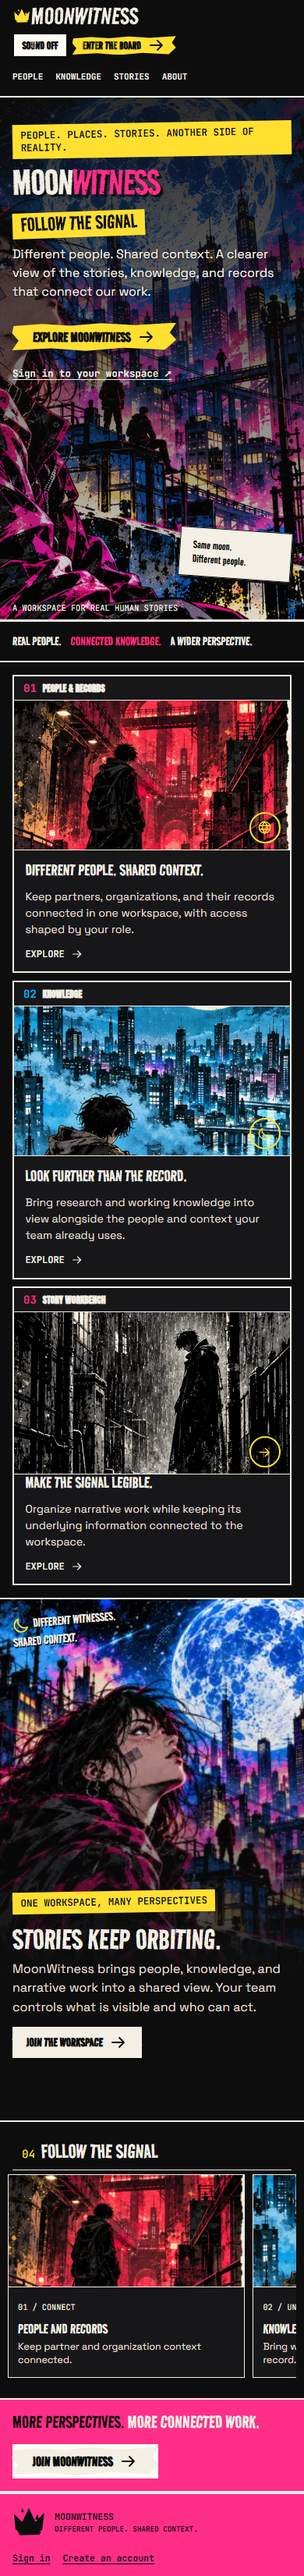
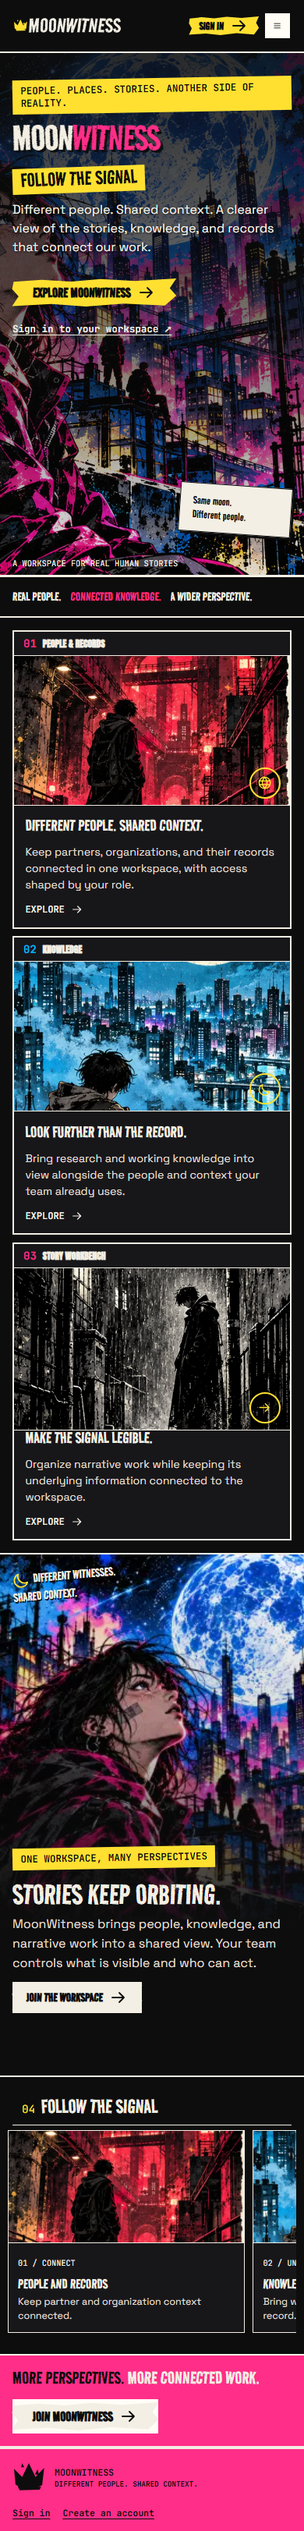
feat(home): add accessible mobile navigation

diff --git a/apps/board/src/components/home/home-header.tsx b/apps/board/src/components/home/home-header.tsx
@@ -1,0 +1,95 @@
+'use client';
+
+import Image from 'next/image';
+import Link from 'next/link';
+import { Button } from '@moonwitness/ui/components/button';
+import {
+  Sheet,
+  SheetClose,
+  SheetContent,
+  SheetDescription,
+  SheetHeader,
+  SheetTitle,
+  SheetTrigger,
+} from '@moonwitness/ui/components/sheet';
+import { SoundToggle } from '@moonwitness/ui/components/audio';
+import { ArrowRightIcon, MenuIcon } from '@moonwitness/ui/icons';
+
+const homeLinks = [
+  { label: 'People', href: '#people' },
+  { label: 'Knowledge', href: '#knowledge' },
+  { label: 'Stories', href: '#stories' },
+  { label: 'About', href: '#about' },
+] as const;
+
+export function HomeHeader() {
+  return (
+    <header className="home-header">
+      <Link href="/" className="home-mark" aria-label="MoonWitness home">
+        <Image
+          src="/brand/moonwitness-lockup-dark.svg"
+          alt="MoonWitness"
+          className="home-lockup"
+          width={500}
+          height={80}
+          loading="eager"
+        />
+      </Link>
+      <nav className="home-nav" aria-label="Main navigation">
+        {homeLinks.map((item) => (
+          <a href={item.href} key={item.href}>
+            {item.label}
+          </a>
+        ))}
+      </nav>
+      <div className="home-header-actions">
+        <div className="home-desktop-sound">
+          <SoundToggle />
+        </div>
+        <Button asChild treatment="brush" size="sm">
+          <Link href="/login">
+            <span className="home-header-cta-desktop">Enter the board</span>
+            <span className="home-header-cta-mobile">Sign in</span>
+            <ArrowRightIcon aria-hidden="true" />
+          </Link>
+        </Button>
+        <Sheet>
+          <SheetTrigger asChild>
+            <Button
+              type="button"
+              variant="outline"
+              size="icon"
+              className="home-mobile-trigger"
+              aria-label="Open site navigation"
+            >
+              <MenuIcon aria-hidden="true" />
+            </Button>
+          </SheetTrigger>
+          <SheetContent side="right" className="home-mobile-sheet" aria-label="Site navigation">
+            <SheetHeader className="home-mobile-sheet-header">
+              <SheetTitle className="home-mobile-sheet-title">Explore MoonWitness</SheetTitle>
+              <SheetDescription>People, knowledge, stories, and the workspace.</SheetDescription>
+            </SheetHeader>
+            <nav className="home-mobile-nav" aria-label="Mobile navigation">
+              {homeLinks.map((item) => (
+                <SheetClose asChild key={item.href}>
+                  <a href={item.href}>{item.label}</a>
+                </SheetClose>
+              ))}
+            </nav>
+            <div className="home-mobile-sheet-actions">
+              <SoundToggle />
+              <Button asChild treatment="brush" size="lg">
+                <SheetClose asChild>
+                  <Link href="/login">
+                    Enter the board <ArrowRightIcon aria-hidden="true" />
+                  </Link>
+                </SheetClose>
+              </Button>
+            </div>
+          </SheetContent>
+        </Sheet>
+      </div>
+    </header>
+  );
+}

diff --git a/apps/board/e2e/public-home.spec.ts b/apps/board/e2e/public-home.spec.ts
@@ -71,6 +71,38 @@ test('homepage adapts to a narrow mobile viewport without horizontal overflow', 
   await page.setViewportSize({ width: 390, height: 844 });
   await page.goto('/');
   await expect(page.getByRole('heading', { level: 1, name: 'MoonWitness' })).toBeVisible();
+  await expect(page.getByRole('navigation', { name: 'Main navigation' })).toBeHidden();
+  const menuTrigger = page.getByRole('button', { name: 'Open site navigation' });
+  await expect(menuTrigger).toBeVisible();
+  await menuTrigger.focus();
+  await page.keyboard.press('Enter');
+  const mobileNav = page.getByRole('navigation', { name: 'Mobile navigation' });
+  await expect(mobileNav).toBeVisible();
+  const sheetPanel = page.locator('[data-slot="sheet-content"]');
+  const panelBounds = await sheetPanel.evaluate((element) =>
+    element.getBoundingClientRect().toJSON()
+  );
+  expect(panelBounds.top).toBeGreaterThanOrEqual(0);
+  expect(panelBounds.bottom).toBeLessThanOrEqual(844);
+  expect(panelBounds.right).toBeGreaterThanOrEqual(389);
+  const overlayColor = await page
+    .locator('[data-slot="sheet-overlay"]')
+    .evaluate((element) => getComputedStyle(element).backgroundColor);
+  expect(overlayColor).not.toBe('rgba(0, 0, 0, 0)');
+  await expect(mobileNav.getByRole('link', { name: 'People' })).toHaveAttribute('href', '#people');
+  await expect(mobileNav.getByRole('link', { name: 'Knowledge' })).toHaveAttribute(
+    'href',
+    '#knowledge'
+  );
+  for (let tabPress = 0; tabPress < 8; tabPress += 1) {
+    await page.keyboard.press('Tab');
+    expect(await sheetPanel.evaluate((element) => element.contains(document.activeElement))).toBe(
+      true
+    );
+  }
+  await page.keyboard.press('Escape');
+  await expect(mobileNav).toBeHidden();
+  await expect(menuTrigger).toBeFocused();
   const hasHorizontalOverflow = await page.evaluate(
     () => document.documentElement.scrollWidth > document.documentElement.clientWidth
   );
@@ -95,4 +127,10 @@ test('homepage adapts to a narrow mobile viewport without horizontal overflow', 
   await expect.poll(() => filmstrip.evaluate((element) => element.scrollLeft)).toBeGreaterThan(0);
   await page.keyboard.press('Home');
   await expect.poll(() => filmstrip.evaluate((element) => element.scrollLeft)).toBeLessThan(10);
+  await menuTrigger.click();
+  const mobileDialog = page.getByRole('dialog', { name: 'Explore MoonWitness' });
+  await expect(mobileDialog).toBeVisible();
+  await mobileDialog.getByRole('link', { name: 'Enter the board' }).click();
+  await expect(page).toHaveURL(/\/login$/u);
+  await expect(mobileDialog).toBeHidden();
 });

diff --git a/apps/board/src/app/page.tsx b/apps/board/src/app/page.tsx
@@ -4,8 +4,8 @@ import type { Metadata } from 'next';
 import { Button } from '@moonwitness/ui/components/button';
 import { PaperNote } from '@moonwitness/ui/components/paper-note';
 import { SectionRibbon } from '@moonwitness/ui/components/section-ribbon';
-import { SoundToggle } from '@moonwitness/ui/components/audio';
 import { ArrowRightIcon, GlobeIcon, MoonIcon } from '@moonwitness/ui/icons';
+import { HomeHeader } from '../components/home/home-header';
 import { HorizontalFilmstrip } from '../components/home/horizontal-filmstrip';
 
 // Next.js route metadata must be exported from the route file alongside its component.
@@ -104,32 +104,7 @@ const processSteps = [
 export default function HomePage() {
   return (
     <main className="home-page">
-      <header className="home-header">
-        <Link href="/" className="home-mark" aria-label="MoonWitness home">
-          <Image
-            src="/brand/moonwitness-lockup-dark.svg"
-            alt="MoonWitness"
-            className="home-lockup"
-            width={500}
-            height={80}
-            loading="eager"
-          />
-        </Link>
-        <nav className="home-nav" aria-label="Main navigation">
-          <a href="#people">People</a>
-          <a href="#knowledge">Knowledge</a>
-          <a href="#stories">Stories</a>
-          <a href="#about">About</a>
-        </nav>
-        <div className="home-header-actions">
-          <SoundToggle />
-          <Button asChild treatment="brush" size="sm">
-            <Link href="/login">
-              Enter the board <ArrowRightIcon aria-hidden="true" />
-            </Link>
-          </Button>
-        </div>
-      </header>
+      <HomeHeader />
 
       <section className="home-hero" aria-labelledby="home-title">
         <picture className="home-hero-art">

diff --git a/apps/board/src/app/global.css b/apps/board/src/app/global.css
@@ -65,6 +65,48 @@
   align-items: center;
   gap: 0.75rem;
 }
+.home-mobile-trigger {
+  display: none;
+}
+.home-header-cta-mobile {
+  display: none;
+}
+.home-mobile-sheet {
+  width: min(21rem, 88vw);
+  border-left: 4px solid var(--mw-yellow);
+  background: var(--mw-paper);
+  color: var(--mw-ink);
+}
+.home-mobile-sheet-header {
+  padding: 0.5rem 2rem 1rem 0;
+}
+.home-mobile-sheet-title {
+  font: 400 2rem/1 var(--mw-font-brush);
+  text-transform: uppercase;
+}
+.home-mobile-nav {
+  display: grid;
+  gap: 0.25rem;
+  padding-block: 0.5rem 1rem;
+  border-top: 1px solid var(--mw-ink);
+  border-bottom: 1px solid var(--mw-ink);
+  font: 400 1.7rem/1.1 var(--mw-font-brush);
+  text-transform: uppercase;
+}
+.home-mobile-nav a {
+  padding: 0.45rem 0.25rem;
+}
+.home-mobile-nav a:hover,
+.home-mobile-nav a:focus-visible {
+  background: var(--mw-magenta);
+  color: var(--mw-paper);
+}
+.home-mobile-sheet-actions {
+  display: grid;
+  justify-items: start;
+  gap: 0.75rem;
+  padding-top: 1rem;
+}
 .home-header-actions .mw-ui-sound-toggle {
   border-color: var(--mw-paper);
   color: var(--mw-paper);
@@ -548,16 +590,26 @@
     gap: 0.5rem;
   }
   .home-lockup {
-    width: clamp(8.5rem, 44vw, 12rem);
+    width: clamp(7.75rem, 38vw, 10rem);
   }
   .home-nav {
-    justify-content: flex-start;
-    gap: 1rem;
-    overflow-x: auto;
-    font-size: 0.68rem;
+    display: none;
   }
   .home-header-actions {
     gap: 0.4rem;
+  }
+  .home-desktop-sound {
+    display: none;
+  }
+  .home-mobile-trigger {
+    display: inline-flex;
+    flex: 0 0 auto;
+  }
+  .home-header-cta-desktop {
+    display: none;
+  }
+  .home-header-cta-mobile {
+    display: inline;
   }
   .home-header-actions .mw-ui-button {
     padding-inline: 0.65rem;

diff --git a/apps/board/src/index.css b/apps/board/src/index.css
@@ -4,6 +4,9 @@
 @import '@moonwitness/ui/components.css';
 @import '@moonwitness/assets/fonts.css';
 
+@source '../../../packages/ui/src';
+@source '../../../packages/ui/dist';
+
 @custom-variant dark (&:where(.dark, .dark *));
 
 /*

diff --git a/todo-ui.md b/todo-ui.md
@@ -280,6 +280,8 @@ Perluas komponen yang sudah ada; jangan membuat duplicate `MangaButton`/`MangaPa
 
 Accent `magenta`, `cyan`, dan `yellow` bersifat dekoratif; accent tidak mengubah arti error/success.
 
+- [x] Sertakan source dan output UI package pada pemindaian Tailwind consumer agar style Sheet/Dialog shared tersedia. Bukti: `apps/board/src/index.css` dan `apps/ui-catalog/src/styles.css`; E2E memeriksa posisi Sheet dan overlay.
+
 ### Primitive dan composition
 
 - [x] Terapkan treatment brush ke Button tanpa mengubah perilaku tombol.
@@ -353,7 +355,7 @@ Urutan: header → hero manga → tiga panel editorial → band koneksi → film
 - [x] Gunakan shared Button untuk CTA login. Bukti: CTA `Enter the board` memakai `Button` + Next `Link` di `apps/board/src/app/page.tsx`.
 - [x] Tampilkan SoundToggle dengan label yang jelas. Bukti visual `homepage-filmstrip-desktop-1672.png`; accessible name diperiksa pada homepage.
 - [x] Tampilkan search/language hanya jika kontrol punya aksi nyata. Home tidak menampilkan kontrol search atau language yang belum berfungsi.
-- [ ] Jadikan navigasi mobile sebagai menu accessible.
+- [x] Jadikan navigasi mobile sebagai menu accessible dari Sheet shared. Bukti visual ejaan dan isi menu: `docs/design/ui-catalog/homepage-mobile-menu-390.png`; keyboard open/close, focus trap, return focus, tautan section, posisi panel/overlay, dan CTA ke login diuji di `apps/board/e2e/public-home.spec.ts`.
 - [x] Ganti hero geometris dua kolom dengan panorama collage. Bukti: `docs/design/ui-catalog/homepage-filmstrip-desktop-1672.png`.
 - [x] Letakkan karakter besar di tengah/kanan dan beri negative space untuk copy. Bukti: screenshot desktop dan mobile di UI Catalog.
 - [x] Render headline dan copy sebagai HTML yang dapat diakses/searchable. Bukti: h1 `MOONWITNESS` terdeteksi pada Playwright dan terbaca di screenshot.
@@ -539,7 +541,7 @@ Pertahankan satu command manual/otomatis: **`pnpm board:ui:check`**.
 - [x] Tambahkan screenshot baseline workbench kosong dan populated desktop/mobile; ejaan brand/copy, pemuatan artwork, overflow, accessibility, dan hash contoh diperiksa secara visual. Bukti: baseline `workbench-desktop-1440`, `workbench-mobile-390`, `workbench-filled-desktop-1440`, dan `workbench-filled-mobile-390` di `apps/board/e2e/visual-audit.spec.ts-snapshots/`.
 - [ ] Tambahkan specimen tabel, form, overlay, dan state utama.
 - [ ] Gunakan data, waktu, font, dan dekorasi deterministik.
-- [x] Review di `1672×941`, `1440×900`, `1024×900`, `768×1024`, dan `390×844`. Bukti: fullpage screenshots dan audit; 320 px masih tersisa.
+- [x] Review di `1672×941`, `1440×900`, `1024×900`, `768×1024`, `390×844`, dan `320×700`. Bukti: screenshot homepage desktop/mobile dan `docs/design/ui-catalog/homepage-mobile-320.png`; tidak ada page overflow.
 - [ ] Review light/dark dan reduced motion.
 - [ ] Pastikan body tidak overflow horizontal; tabel memakai scroll region berlabel.
 - [ ] Bandingkan side-by-side dengan referensi dan catat gap.

diff --git a/packages/ui/README.md b/packages/ui/README.md
@@ -47,6 +47,8 @@ Build upward only where repeated behavior requires it:
 
 Import through public subpaths such as `@moonwitness/ui/components/button`, `@moonwitness/ui/icons/search`, and `@moonwitness/ui/components.css`. Never import `dist` or package internals. Import styles once with tokens before component styles. Board pages must use shared buttons, inputs, selects, textareas, checkboxes, and shared table compositions; do not add new raw native JSX controls. Preserve the existing controlled state, labels, validation, disabled behavior, keyboard use, file input behavior, indeterminate checkboxes, sorting, and row propagation.
 
+Consumers that compile Tailwind utilities must include both the UI package source and built `dist` files in Tailwind's source scan. Otherwise utility-based shared primitives such as Sheet and Dialog can render in the DOM without their required position, overlay, or responsive styles. The Board and UI Catalog stylesheets show the required source paths.
+
 When adding a component: first record its behavior and accessibility contract; build it from existing tokens and helpers; expose a narrow public subpath; add a catalog specimen and relevant package checks; then use it from the product surface. Do not add a duplicate “manga” component when an existing primitive can accept a visual treatment.
 
 ## Accessibility, responsive behavior, and states
